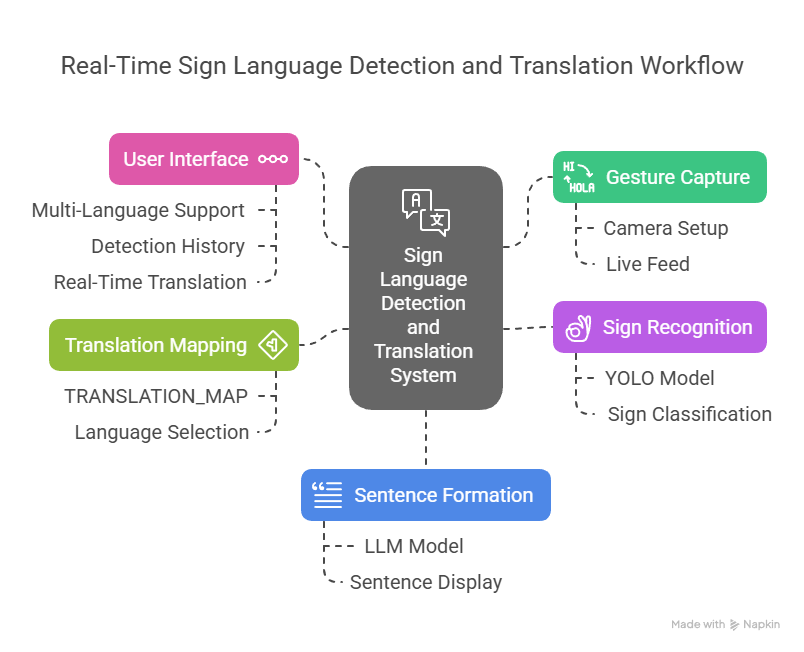
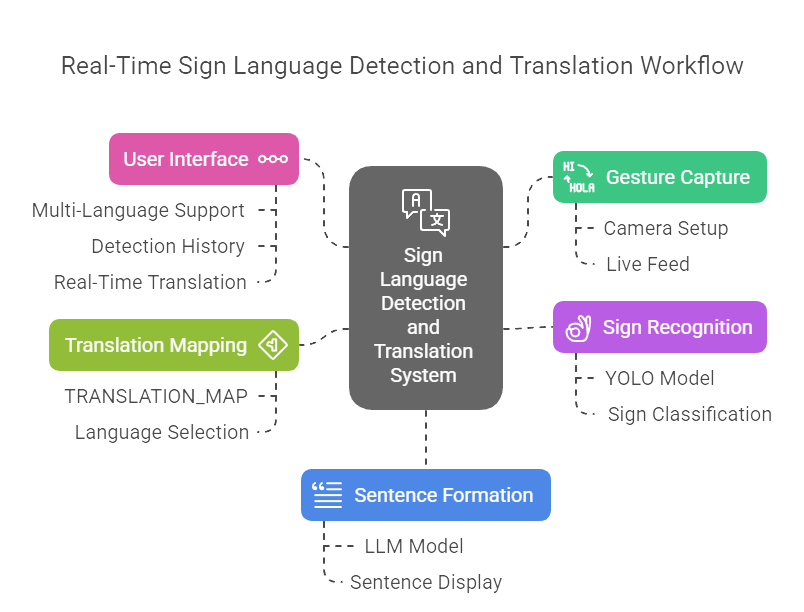
Web app Completed !

diff --git a/New web-app/templates/500.html b/New web-app/templates/500.html
@@ -1,0 +1,228 @@
+<!DOCTYPE html>
+<html lang="en">
+<head>
+  <meta charset="UTF-8">
+  <title>Error Page</title>
+  <meta name="viewport" content="width=device-width, initial-scale=1.0">
+  <link rel="icon" href="../static/logo.png" sizes="16x16" />
+  <style>
+    body {
+      height: 100vh;
+      background-image: radial-gradient(closest-side, #2EA3F2, #2874B8);
+      text-align: center;
+      color: #fff;
+      font-family: "Helvetica Neue", sans-serif;
+      font-size: 16px;
+      line-height: 1.5;
+    }
+
+    .logo {
+      margin: 40px auto;
+      display: block;
+    }
+
+    h1 {
+      font-size: 24px;
+      line-height: 40px;
+      margin: 0 auto 16px;
+      padding: 0 20px;
+      text-shadow: 0 2px 4px rgba(0,0,0,0.2);
+      letter-spacing: 0.5px;
+      font-weight: 600;
+      max-width: 600px;
+    }
+
+    p {
+      color: #D6DCE0;
+      font-weight: 300;
+      max-width: 600px;
+      margin: 0 auto 24px;
+      text-shadow: 0 2px 3px rgba(0,0,0,0.1);
+      letter-spacing: 0.5px;
+      padding: 0 20px;
+    }
+
+    p a {
+      color: inherit;
+      text-decoration: underline;
+    }
+
+    p a:hover {
+      color: #fff;
+    }
+
+    .button {
+      color: #2EA3F2;
+      background: #fff;
+      border-radius: 3px;
+      display: inline-block;
+      padding: 12px 48px;
+      text-decoration: none;
+      box-shadow: 0 1px 2px rgba(0,0,0,0.1);
+      transition: all 0.2s ease-out;
+    }
+
+    .button:hover {
+      margin-top: -2px;
+      box-shadow: 0 6px 24px rgba(0,0,0,0.4);
+    }
+
+    .browser {
+      width: 400px;
+      min-width: 200px;
+      min-height: 264px;
+      background: #FFFFFF;
+      box-shadow: 0 40px 80px 0 rgba(0,0,0,0.25);
+      border-radius: 3px;
+      animation: bobble 1.8s ease-in-out infinite;
+      position: relative;
+      left: 50%;
+      margin-left: -200px;
+    }
+
+    .controls {
+      width: 100%;
+      height: 32px;
+      background: #E8ECEF;
+      border-radius: 3px 3px 0 0;
+      box-sizing: border-box;
+      padding: 10px 12px;
+    }
+
+    .controls i {
+      height: 12px;
+      width: 12px;
+      border-radius: 100%;
+      display: block;
+      float: left;
+      background: #D6DCE0;
+      margin-right: 8px;
+    }
+
+    .eye {
+      position: absolute;
+      left: 34%;
+      top: 80px;
+      width: 32px;
+      height: 32px;
+      opacity: 1;
+    }
+
+    .eye + .eye {
+      right: 34%;
+      left: auto;
+    }
+
+    .eye:before, .eye:after {
+      position: absolute;
+      left: 15px;
+      content: ' ';
+      height: 40px;
+      width: 3px;
+      border-radius: 2px;
+      background-color: #FF5E5B;
+    }
+
+    .eye:before {
+      transform: rotate(45deg);
+    }
+
+    .eye:after {
+      transform: rotate(-45deg);
+    }
+
+    .mouth {
+      position: absolute;
+      width: 250px;
+      top: 178px;
+      left: 50%;
+      margin-left: -125px;
+      height: 40px;
+    }
+
+    .lips {
+      position: absolute;
+      left: 15px;
+      content: ' ';
+      height: 40px;
+      width: 3px;
+      border-radius: 2px;
+      background-color: #FF5E5B;
+    }
+
+    .lips:nth-child(odd) {
+      transform: rotate(54deg);
+    }
+
+    .lips:nth-child(even) {
+      transform: rotate(-54deg);
+    }
+
+    .lips:nth-child(2)  { margin-left: 31px; }
+    .lips:nth-child(3)  { margin-left: 62px; }
+    .lips:nth-child(4)  { margin-left: 93px; }
+    .lips:nth-child(5)  { margin-left: 124px; }
+    .lips:nth-child(6)  { margin-left: 155px; }
+    .lips:nth-child(7)  { margin-left: 186px; }
+    .lips:nth-child(8)  { margin-left: 217px; }
+
+    @keyframes bobble {
+      0%, 100% {
+        margin-top: 40px;
+        margin-bottom: 48px;
+        box-shadow: 0 40px 80px rgba(0,0,0,0.24);
+      }
+      50% {
+        margin-top: 54px;
+        margin-bottom: 34px;
+        box-shadow: 0 24px 64px rgba(0,0,0,0.40);
+      }
+    }
+
+    @media only screen and (max-width: 480px) {
+      .browser {
+        width: 280px;
+        margin-left: -140px;
+      }
+
+      .browser .eye {
+        left: 30%;
+      }
+
+      .browser .eye + .eye {
+        left: auto;
+        right: 30%;
+      }
+    }
+  </style>
+</head>
+<body>
+
+  <img src="/static/logo.png" class="logo" width="192">
+
+  <div class="browser">
+    <div class="controls">
+      <i></i>
+      <i></i>
+      <i></i>
+    </div>
+    
+    <div class="eye"></div>
+    <div class="eye"></div>
+    <div class="mouth">
+      <div class="lips"></div>
+      <div class="lips"></div>
+      <div class="lips"></div>
+      <div class="lips"></div>
+      <div class="lips"></div>
+      <div class="lips"></div>
+      <div class="lips"></div>
+      <div class="lips"></div>
+    </div>
+  </div>
+
+  <h1>Unfortunately, something has gone wrong.</h1>
+  <p>We're unable to fulfill your request. Rest assured we have been notified and are looking into the issue. Please refresh your browser. If the error continues, please contact our <a href="/">support team</a>.</p>
+
+</body>
+</html>

diff --git a/New web-app/templates/index.html b/New web-app/templates/index.html
@@ -60,7 +60,7 @@
             </div>
           
             <div class="hidden md:block">
-                <button class="bg-primary-600 hover:bg-primary-700 text-white px-6 py-2 rounded-md font-medium transition">Get Started</button>
+                <a href="/core_app" class="bg-primary-600 hover:bg-primary-700 text-white px-6 py-2 rounded-md font-medium transition inline-block">Get Started</a>
             </div>
             <div class="md:hidden">
                 <i class="fas fa-bars text-gray-600 text-xl"></i>
@@ -114,11 +114,11 @@
     <section class="py-20 px-6 md:px-12 lg:px-24">
 
         <div class="max-w-4xl mx-auto text-center mb-16">
-            <h2 class="text-3xl md:text-4xl font-bold text-gray-900 dark:text-white mb-4">HOW OUR TECHNOLOGY WORKS</h2>
+           
             
             <div class="p-6 rounded-xl mt-8">
                 <img src="../static/Workflow_Light.png" alt="Workflow Diagram" class="mx-auto max-w-full h-auto dark:hidden">
-                <img src="../static/Workflow_Dark.png" alt="Workflow Diagram" class="mx-auto max-w-full h-auto shadow-lg hidden dark:block">
+                <img src="../static/Workflow_Dark.png" alt="Workflow Diagram" class="mx-auto max-w-full h-auto hidden dark:block">
             </div>
 
         </div>
@@ -251,16 +251,16 @@
                 <h4 class="text-lg font-semibold mb-4">Company</h4>
                 <ul class="space-y-2">
                     <li><a href="/team" class="text-gray-400 hover:text-white">About Us</a></li>
-                    <li><a href="#" class="text-gray-400 hover:text-white">Careers</a></li>
-                    <li><a href="#" class="text-gray-400 hover:text-white">Contact</a></li>
+                    <li><a href="https://i.pinimg.com/736x/c3/b7/b9/c3b7b9ed180346a668b842f19ee15cae.jpg" class="text-gray-400 hover:text-white">Careers</a></li>
+                    <li><a href="https://indianmemetemplates.com/wp-content/uploads/rakh-rakh-teri-maa-ki.jpg" class="text-gray-400 hover:text-white">Contact</a></li>
                 </ul>
             </div>
             <div>
                 <h4 class="text-lg font-semibold mb-4">Connect</h4>
                 <div class="flex space-x-4">
-                    <a href="#" class="text-gray-400 hover:text-white"><i class="fab fa-linkedin-in"></i></a>
-                    <a href="#" class="text-gray-400 hover:text-white"><i class="fab fa-twitter"></i></a>
-                    <a href="#" class="text-gray-400 hover:text-white"><i class="fab fa-facebook-f"></i></a>
+                    <a href="https://www.linkedin.com/in/kartik-chavan-b6b5b4282/" class="text-gray-400 hover:text-white"><i class="fab fa-linkedin-in"></i></a>
+                    <a href="/500" class="text-gray-400 hover:text-white"><i class="fab fa-twitter"></i></a>
+                    <a href="/500" class="text-gray-400 hover:text-white"><i class="fab fa-facebook-f"></i></a>
                 </div>
             </div>
         </div>

diff --git a/New web-app/templates/llm.html b/New web-app/templates/llm.html
@@ -4,11 +4,13 @@
 {% block content %}
 <section class="content-section">
     <div class="content-container">
-        <h1 class="heading-1">LLM Translation Pipeline</h1>
+        
+
         
         <div class="grid md:grid-cols-2 gap-12 items-center mb-16">
             <div class="feature-card">
-                <img src="{{ url_for('static', filename='demos/llm_flow.png') }}" alt="LLM Translation Flow" class="rounded-lg w-full">
+                <img src="{{ url_for('static', filename='LLM WORKFLOW LIGHT.png') }}" alt="LLM Translation Flow" class="rounded-lg w-full dark:hidden">
+                <img src="{{ url_for('static', filename='LLM WORKFLOW DARK.png') }}" alt="LLM Translation Flow" class="rounded-lg w-full hidden dark:block">
             </div>
             <div>
                 <h2 class="heading-2">From Gestures to Fluent Sentences</h2>

diff --git a/New web-app/app.py b/New web-app/app.py
@@ -313,6 +313,10 @@ def team():
 def llm():
     return render_template('llm.html')
 
+@app.route('/500')
+def p500():
+    return render_template('500.html')
+
 @app.route('/api')
 def api():
     return render_template('api.html')
